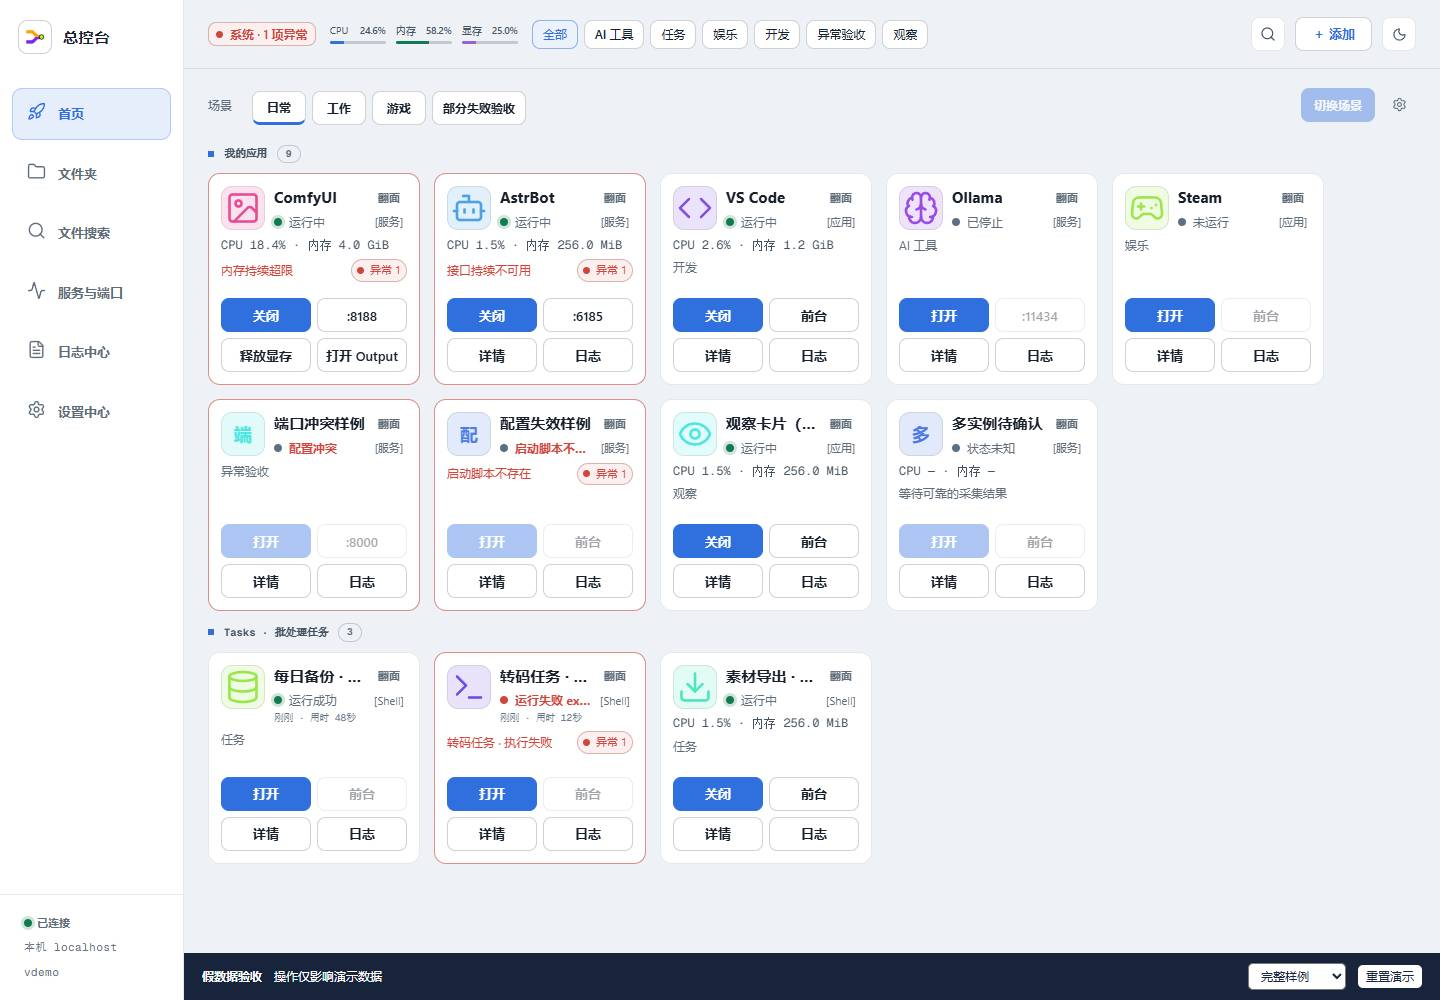
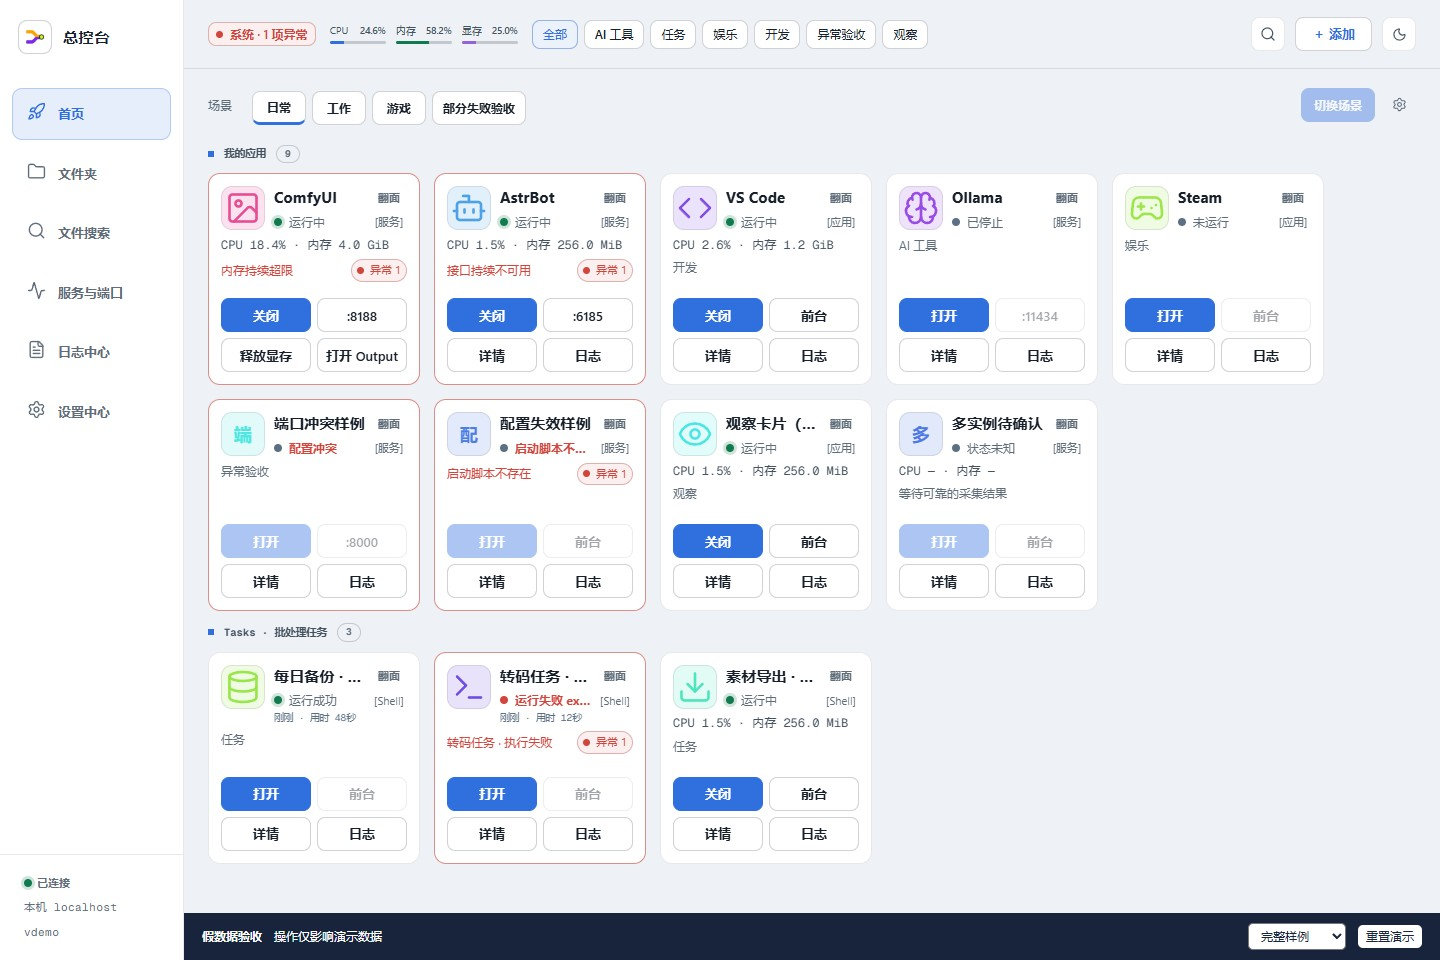
docs: add screenshots of all six themes

diff --git a/ASSET_PROVENANCE.md b/ASSET_PROVENANCE.md
@@ -60,3 +60,15 @@
[3 lines of base64/hex data omitted]
+
+### README 界面截图
+- 状态：`CLEARED`
+- 来源：本仓库页面在 Edge 中的实际截图，1440 × 960，使用 `tools/ui_demo.py` 的虚构演示数据；不读取个人配置，保留底部演示标识。Apple 与雨境加载随库默认壁纸。
+- 用途：README 主题对比与服务监控预览。界面代码适用项目 MIT 声明，截图中的字体、图标及主题素材沿用本台账与第三方声明中的对应来源和许可。
[7 lines of base64/hex data omitted]

diff --git a/README.md b/README.md
@@ -20,11 +20,26 @@
 
 ## 界面预览
 
-截图使用虚构演示数据。
+以下为六个主题的浏览器实际截图，使用同一组虚构演示数据（1440 × 960）。点击图片可查看原图。
 
-| 启动台 | 服务监控 |
+| 极简 · 浅色 | Apple · 浅色 |
 | --- | --- |
-| ![启动台演示](docs/screenshots/ops-launchpad.jpg) | ![服务监控演示](docs/screenshots/ops-services.jpg) |
+| ![极简主题启动台](docs/screenshots/ops-launchpad.jpg) | ![Apple 主题启动台](docs/screenshots/apple-launchpad.jpg) |
+
+| 雨境 · 深色 | 青瓷 · 浅色 |
+| --- | --- |
+| ![雨境主题启动台](docs/screenshots/rain-launchpad.jpg) | ![青瓷主题启动台](docs/screenshots/celadon-launchpad.jpg) |
+
+| 剪纸 · 浅色 | Journal · 素材框架示例 |
+| --- | --- |
+| ![剪纸主题启动台](docs/screenshots/papercut-launchpad.jpg) | ![Journal 素材框架启动台](docs/screenshots/journal-launchpad.jpg) |
+
+<details>
+<summary>服务监控预览（极简主题）</summary>
+
+![服务监控演示](docs/screenshots/ops-services.jpg)
+
+</details>
 
 ## Windows 安装与启动
 
